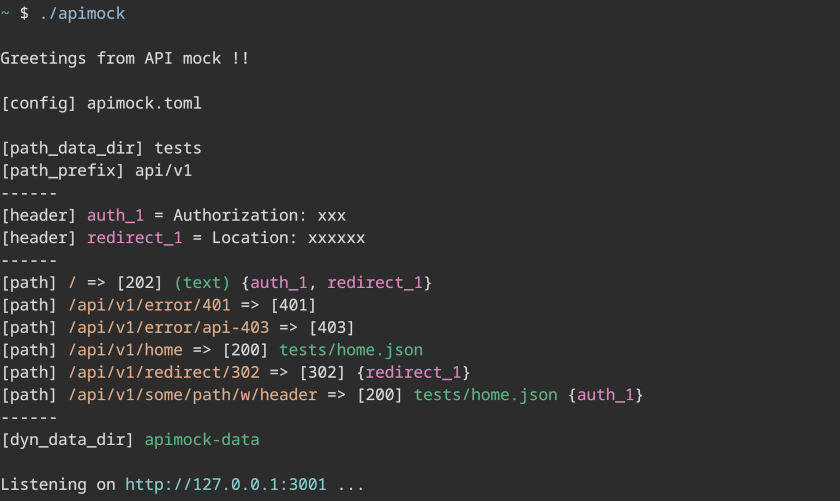
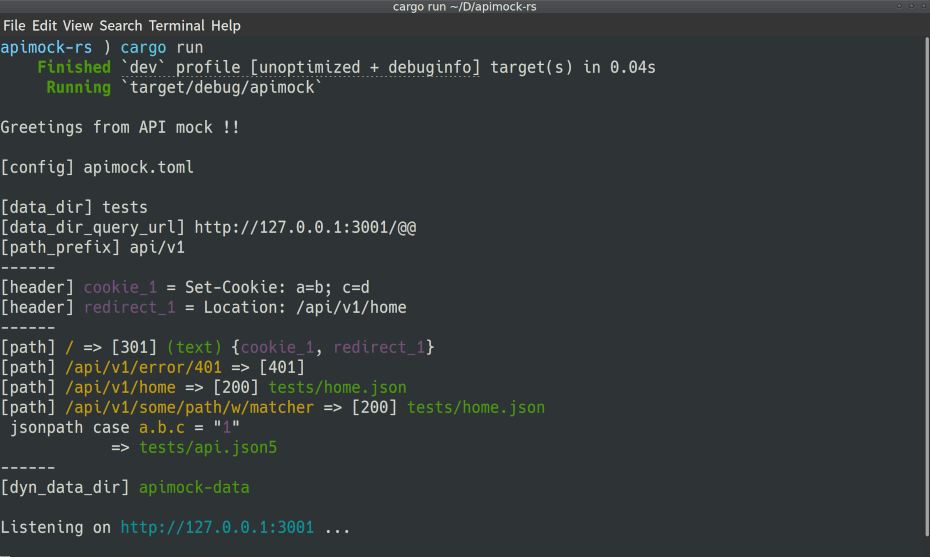
fix todos: udpate data_src (well, no validation); update readme; rename section

diff --git a/src/config.rs b/src/config.rs
@@ -56,7 +56,7 @@ const CONFIG_SECTION_GENERAL: &str = "general";
 const CONFIG_SECTION_URL: &str = "url";
 const CONFIG_SECTION_URL_HEADERS: &str = "headers";
 const CONFIG_SECTION_URL_PATHS: &str = "paths";
-const CONFIG_SECTION_URL_PATHS_JSONPATH_PATTERNS: &str = "paths_jsonpath_patterns";
+const CONFIG_SECTION_URL_PATHS_JSONPATH_PATTERNS: &str = "paths_patterns";
 const CONFIG_SECTION_URL_RAW_PATH: &str = "raw_paths";
 const ALWAYS_DEFAULT_MESSAGES: &str = "Hello, world from API Mock.\n(Responses can be modified with either config toml file or dynamic data directory.)";
 
@@ -111,30 +111,55 @@ impl Config {
     }
 
     /// update `data_src` on static json responses when `data_dir` is updated
-    // todo: matcher
     pub fn update_paths(&mut self, data_dir: &str, old_data_dir: &str) {
-        self.paths = Some(
+        // fn: get data_src with updated data_dir
+        let updated_data_src = |data_src: &str, data_dir: &str| -> String {
+            let data_dir_wo_trailing_slash = data_dir.trim_end_matches('/');
+            let data_src_body =
+                if let Some(stripped) = data_src.strip_prefix(old_data_dir) {
+                    stripped
+                } else {
+                    data_src
+                }
+                .trim_start_matches('/');
+            format!("{}/{}", data_dir_wo_trailing_slash, data_src_body)
+        };
+
+        // [url.paths] data_src
+        let paths = Some(
             self.paths
                 .clone()
                 .unwrap()
                 .into_iter()
                 .map(|mut x| {
                     if let Some(data_src) = x.1.data_src {
-                        let data_dir_wo_trailing_slash = data_dir.trim_end_matches('/');
-                        let data_src_body =
-                            if let Some(stripped) = data_src.strip_prefix(old_data_dir) {
-                                stripped
-                            } else {
-                                data_src.as_str()
-                            }
-                            .trim_start_matches('/');
-                        x.1.data_src =
-                            Some(format!("{}/{}", data_dir_wo_trailing_slash, data_src_body));
+                        x.1.data_src = Some(updated_data_src(data_src.as_str(), data_dir));
                     }
                     x
                 })
                 .collect::<HashMap<String, PathConfig>>(),
-        )
+        );
+        self.paths = paths;
+
+        // [url.paths_patterns] data_src
+        if let Some(paths_jsonpath_patterns) = self.paths_jsonpath_patterns.clone() {
+            let mut updated_paths_jsonpath_patterns: HashMap<String, HashMap<String, Vec<JsonpathMatchingPattern>>> = HashMap::new();
+            paths_jsonpath_patterns.keys().for_each(|path| {
+                let mut updated_jsonpath_patterns: HashMap<String, Vec<JsonpathMatchingPattern>> = HashMap::new();
+                let jsonpath_patterns = paths_jsonpath_patterns.get(path).unwrap();
+                jsonpath_patterns.keys().for_each(|jsonpath| {
+                    let patterns = jsonpath_patterns.get(jsonpath).unwrap();
+                    let updated_patterns = patterns.iter().map(|pattern| {
+                        let mut updated_pattern = pattern.clone();
+                        updated_pattern.data_src = updated_data_src(pattern.data_src.as_str(), data_dir);
+                        updated_pattern
+                    }).collect();
+                    updated_jsonpath_patterns.insert(jsonpath.to_owned(), updated_patterns);
+                });
+                updated_paths_jsonpath_patterns.insert(path.to_owned(), updated_jsonpath_patterns);
+            });
+            self.paths_jsonpath_patterns = Some(updated_paths_jsonpath_patterns);
+        }
     }
 
     /// print out paths on `data_dir` (static json responses)
@@ -371,7 +396,7 @@ impl Config {
         self.paths = Some(self.url_paths(paths_config_content, false));
     }
 
-    /// [url.paths_jsonpath_patterns] section
+    /// [url.paths_patterns] section
     fn config_url_paths_jsonpath_patterns(
         &mut self,
         paths_jsonpath_patterns_json: &toml::Value,

diff --git a/src/util.rs b/src/util.rs
@@ -40,29 +40,3 @@ fn jsonpath_value_recursive<'a>(
         Some(value.clone())
     }
 }
-
-// /// get value from json value with jsonpath
-// use serde_json::Value;
-
-// pub fn jsonpath_value(json: &Value, path: &str) -> Option<Value> {
-//     let mut current: Option<&Value> = Some(json);
-
-//     for key in path.split('.') {
-//         current = match current {
-//             Some(Value::Object(obj)) => obj.get(key),
-//             Some(Value::Array(arr)) => {
-//                 if let Ok(idx) = key.parse::<usize>() {
-//                     arr.get(idx)
-//                 } else {
-//                     None
-//                 }
-//             }
-//             _ => None,
-//         };
-//         if current.is_none() {
-//             break;
-//         }
-//     }
-
-//     current.cloned()
-// }

diff --git a/tests/test.rs b/tests/test.rs
@@ -97,7 +97,7 @@ async fn matcher_object_missing() {
 #[tokio::test]
 async fn matcher_array() {
     setup("apimock.toml").await;
-    let body = "{\"d\":[{},{\"e\":\"x=\"}]}";
+    let body = "{\"d\":[{},{},{\"e\":\"x=\"}]}";
     let response = http_response("/api/v1/some/path/w/matcher", Some(body)).await;
     
     assert_eq!(response.status(), StatusCode::OK);

diff --git a/README.md b/README.md
@@ -34,6 +34,7 @@ Server started to listen:
 - GET / POST methods
 - Multiple paths
 - Multiple .json/.json5 files treated as JSON Response
+- Flexible responses with patterns and jsonpath queries. Even with the same api uri path, multiple responses can be returned. See [\[`url.paths_patterns`\]](#urlpaths_patterns).
 - Can switch data directory paths manually in testing via specific HTTP request to make json responses flexible
 - Dynamic path resolution with `dyn_data_dir`
 - Custom responses codes (HTTP 3xx as redirects and 4xx and 5xx as errors)
@@ -95,6 +96,14 @@ redirect_1 = { key = "Location", value = "/api/v1/home" }
 "error/api-403" = { code = 403 }
 "redirect/302" = { code = 302, headers = ["redirect_1"] }
 
+[url.paths_patterns."some/path/w/matcher"."a.b.c"]
+"=1" = "api.json5"
+"=0" = "home.json"
+[url.paths_patterns."some/path/w/matcher"."d.2.e"]
+"=x=" = "api.json5"
+[url.paths_patterns."some/path/w/matcher"."f"]
+"=" = "api.json5"
+
 [url.raw_paths] # `path_prefix` doesn't work
 "/" = { text = "{ Hello: world }", code = 301, headers = ["cookie_1", "redirect_1"] }
 ```
@@ -147,6 +156,38 @@ It is able to omit code and headers. For example:
 It means `src` and it's far simpler. `code` and `headers` are dealt with as their default: 200 as OK and no custom headers.
 
 Only when either `src` or `text` is defined, the response `Content-Type` is set as `application/json`.
+
+##### `url.paths_patterns`
+
+You can define patterns with which response JSON file is dynamically decided due to request body parameter.
+
+The format is:
+
+```toml
+[url.paths_patterns."{API_PATH}"."{JSONPATH}"]
+"={CASE_VALUE}" = "{DATA_SRC}"
+```
+
+For example, with the definition below, you can return "special.json" when "/some/matcher/path" is accessed to and the request body is "{\"key_a\": {\"key_b\": {\"key_c\": 1}}}":
+
+```toml
+[url.paths_patterns."/some/matcher/path"."key_a.Key_b.key_c"]
+"=1" = "special.json"
+```
+
+Remember:
+
+- Enclose API path and JSONPath with `"`
+- Start with `=` in writing pattern value
+
+Array is also available with index number specified. For example, when the request body is "{\"key_d\": [{}, {}, {\"key_e\": \"x=\"}]}", how to point to it is: 
+
+```toml
+[url.paths_patterns."/some/matcher/path"."key_d.2.key_e"]
+"=x=" = "special.json"
+```
+
+`2` in "key_d.**2**.key_e" is the index.
 
 ##### `url.raw_paths`
 
